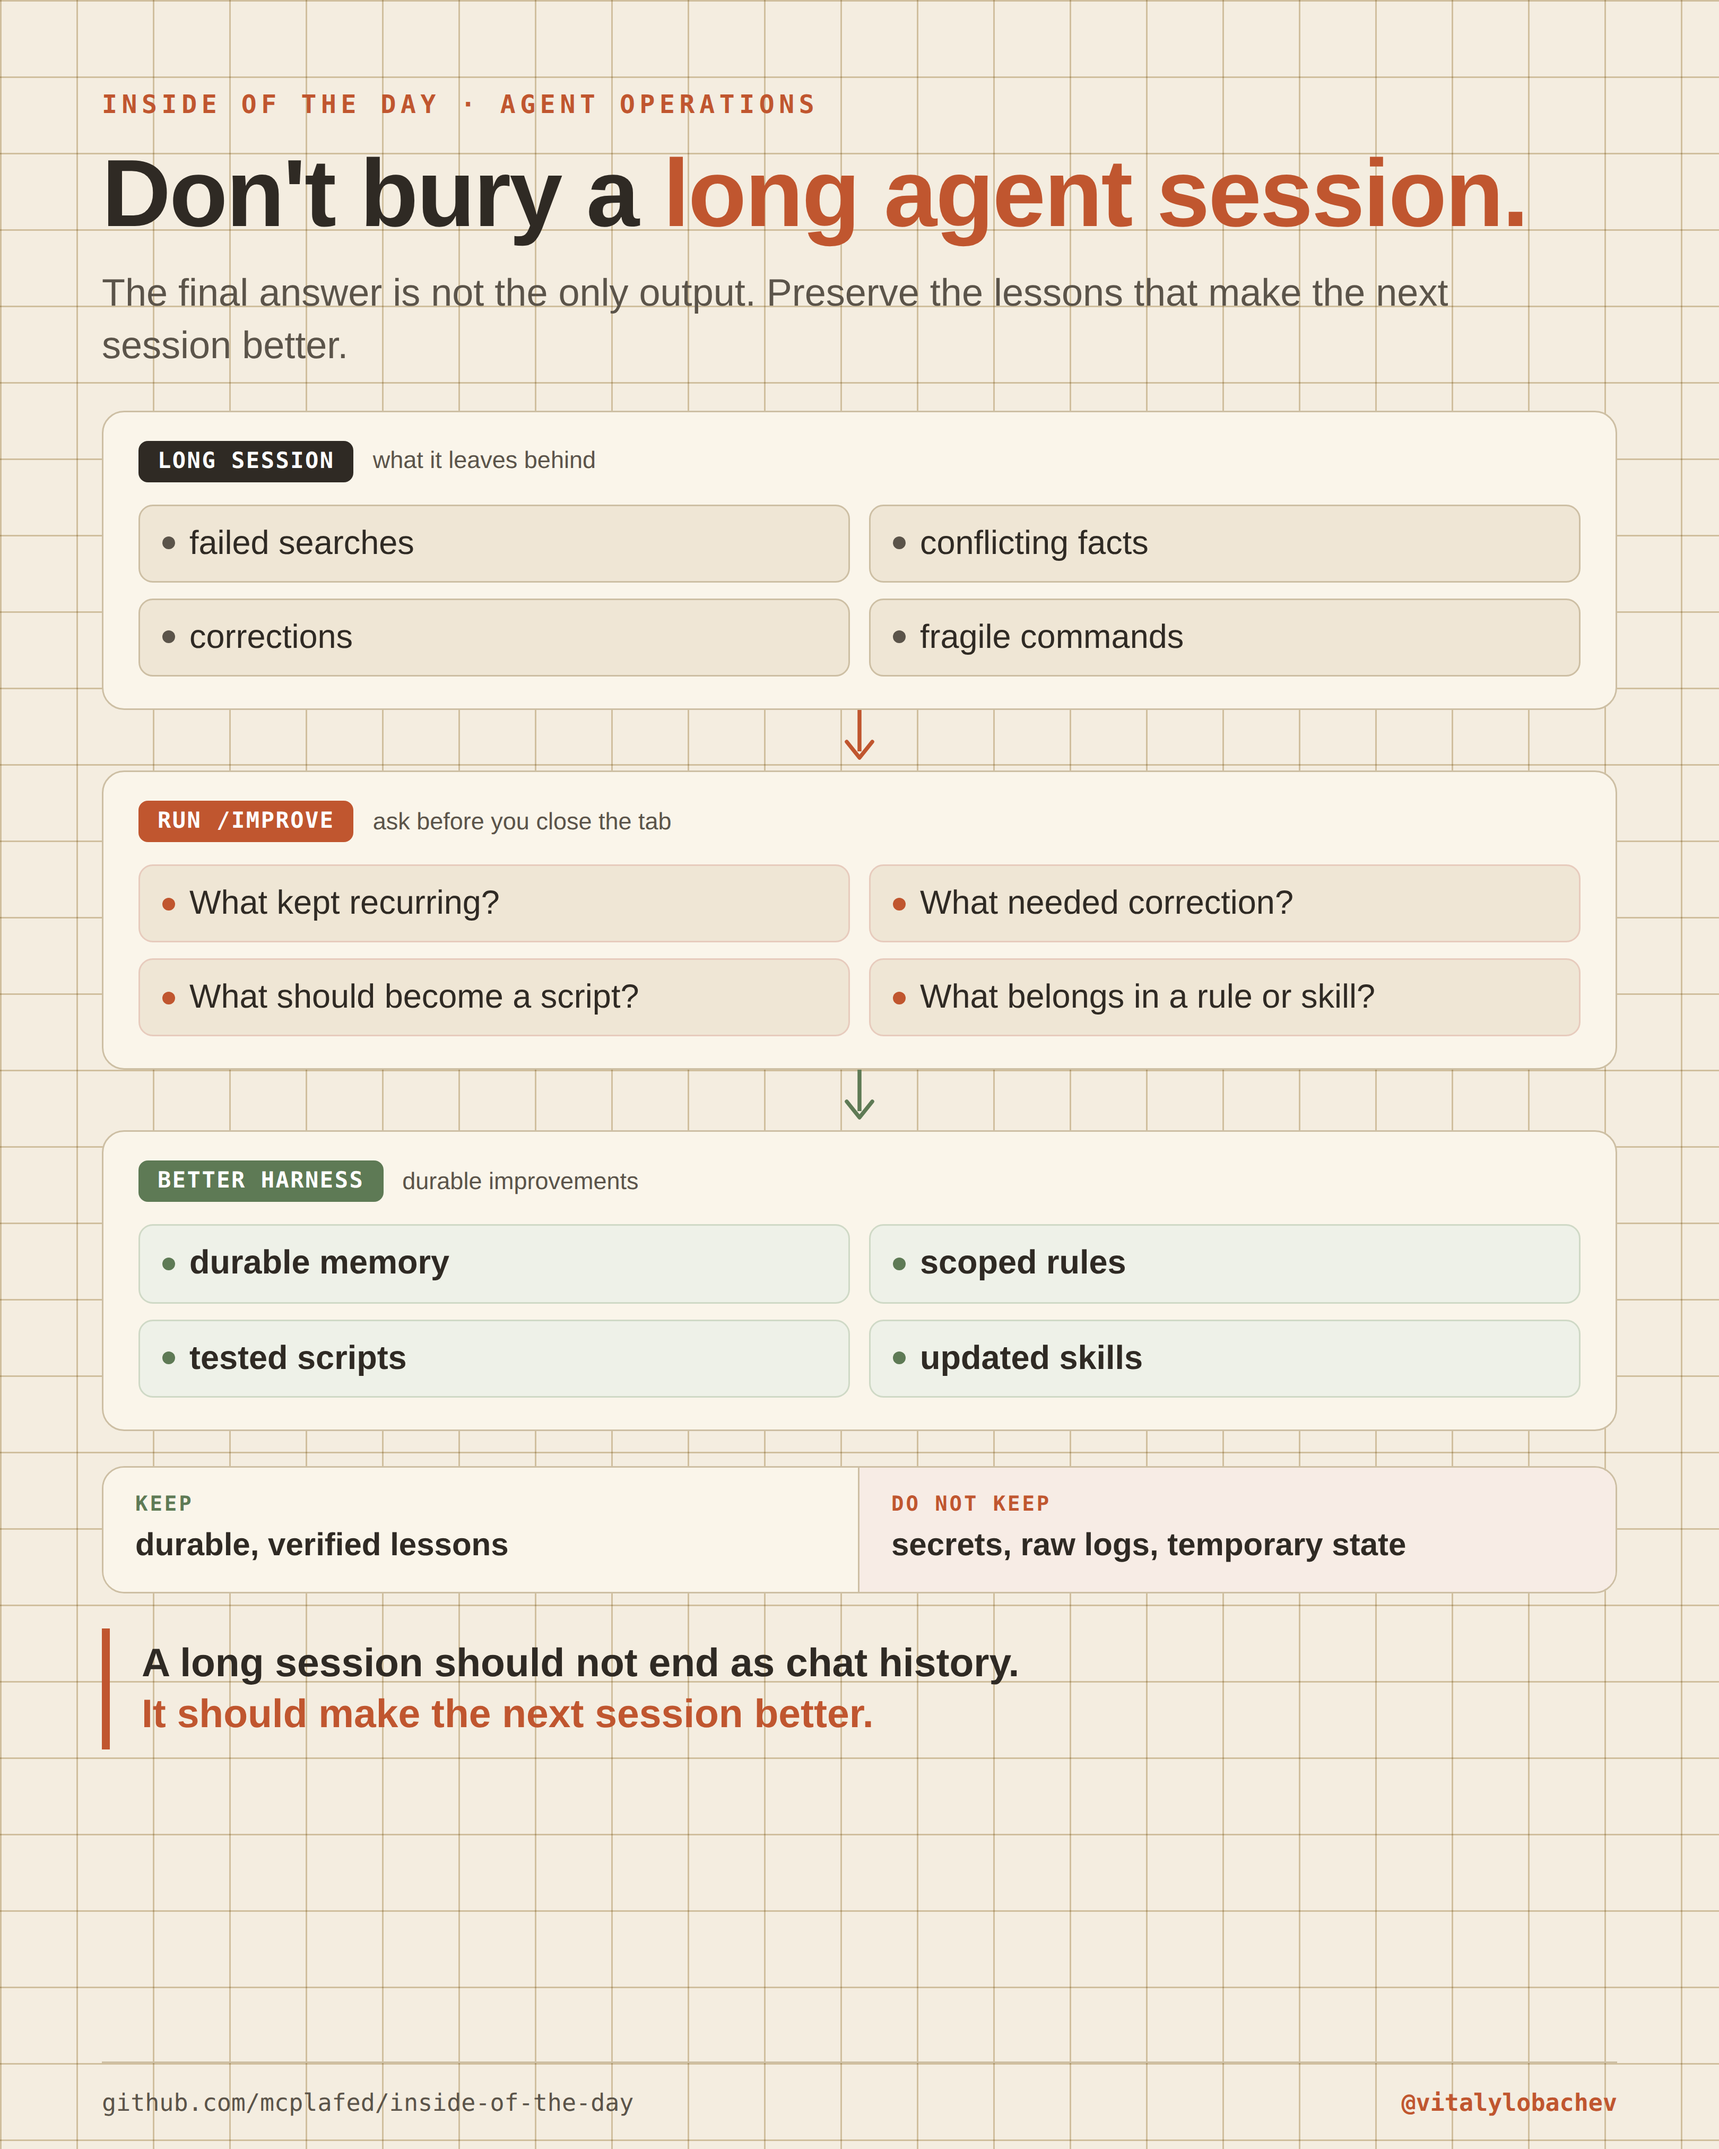
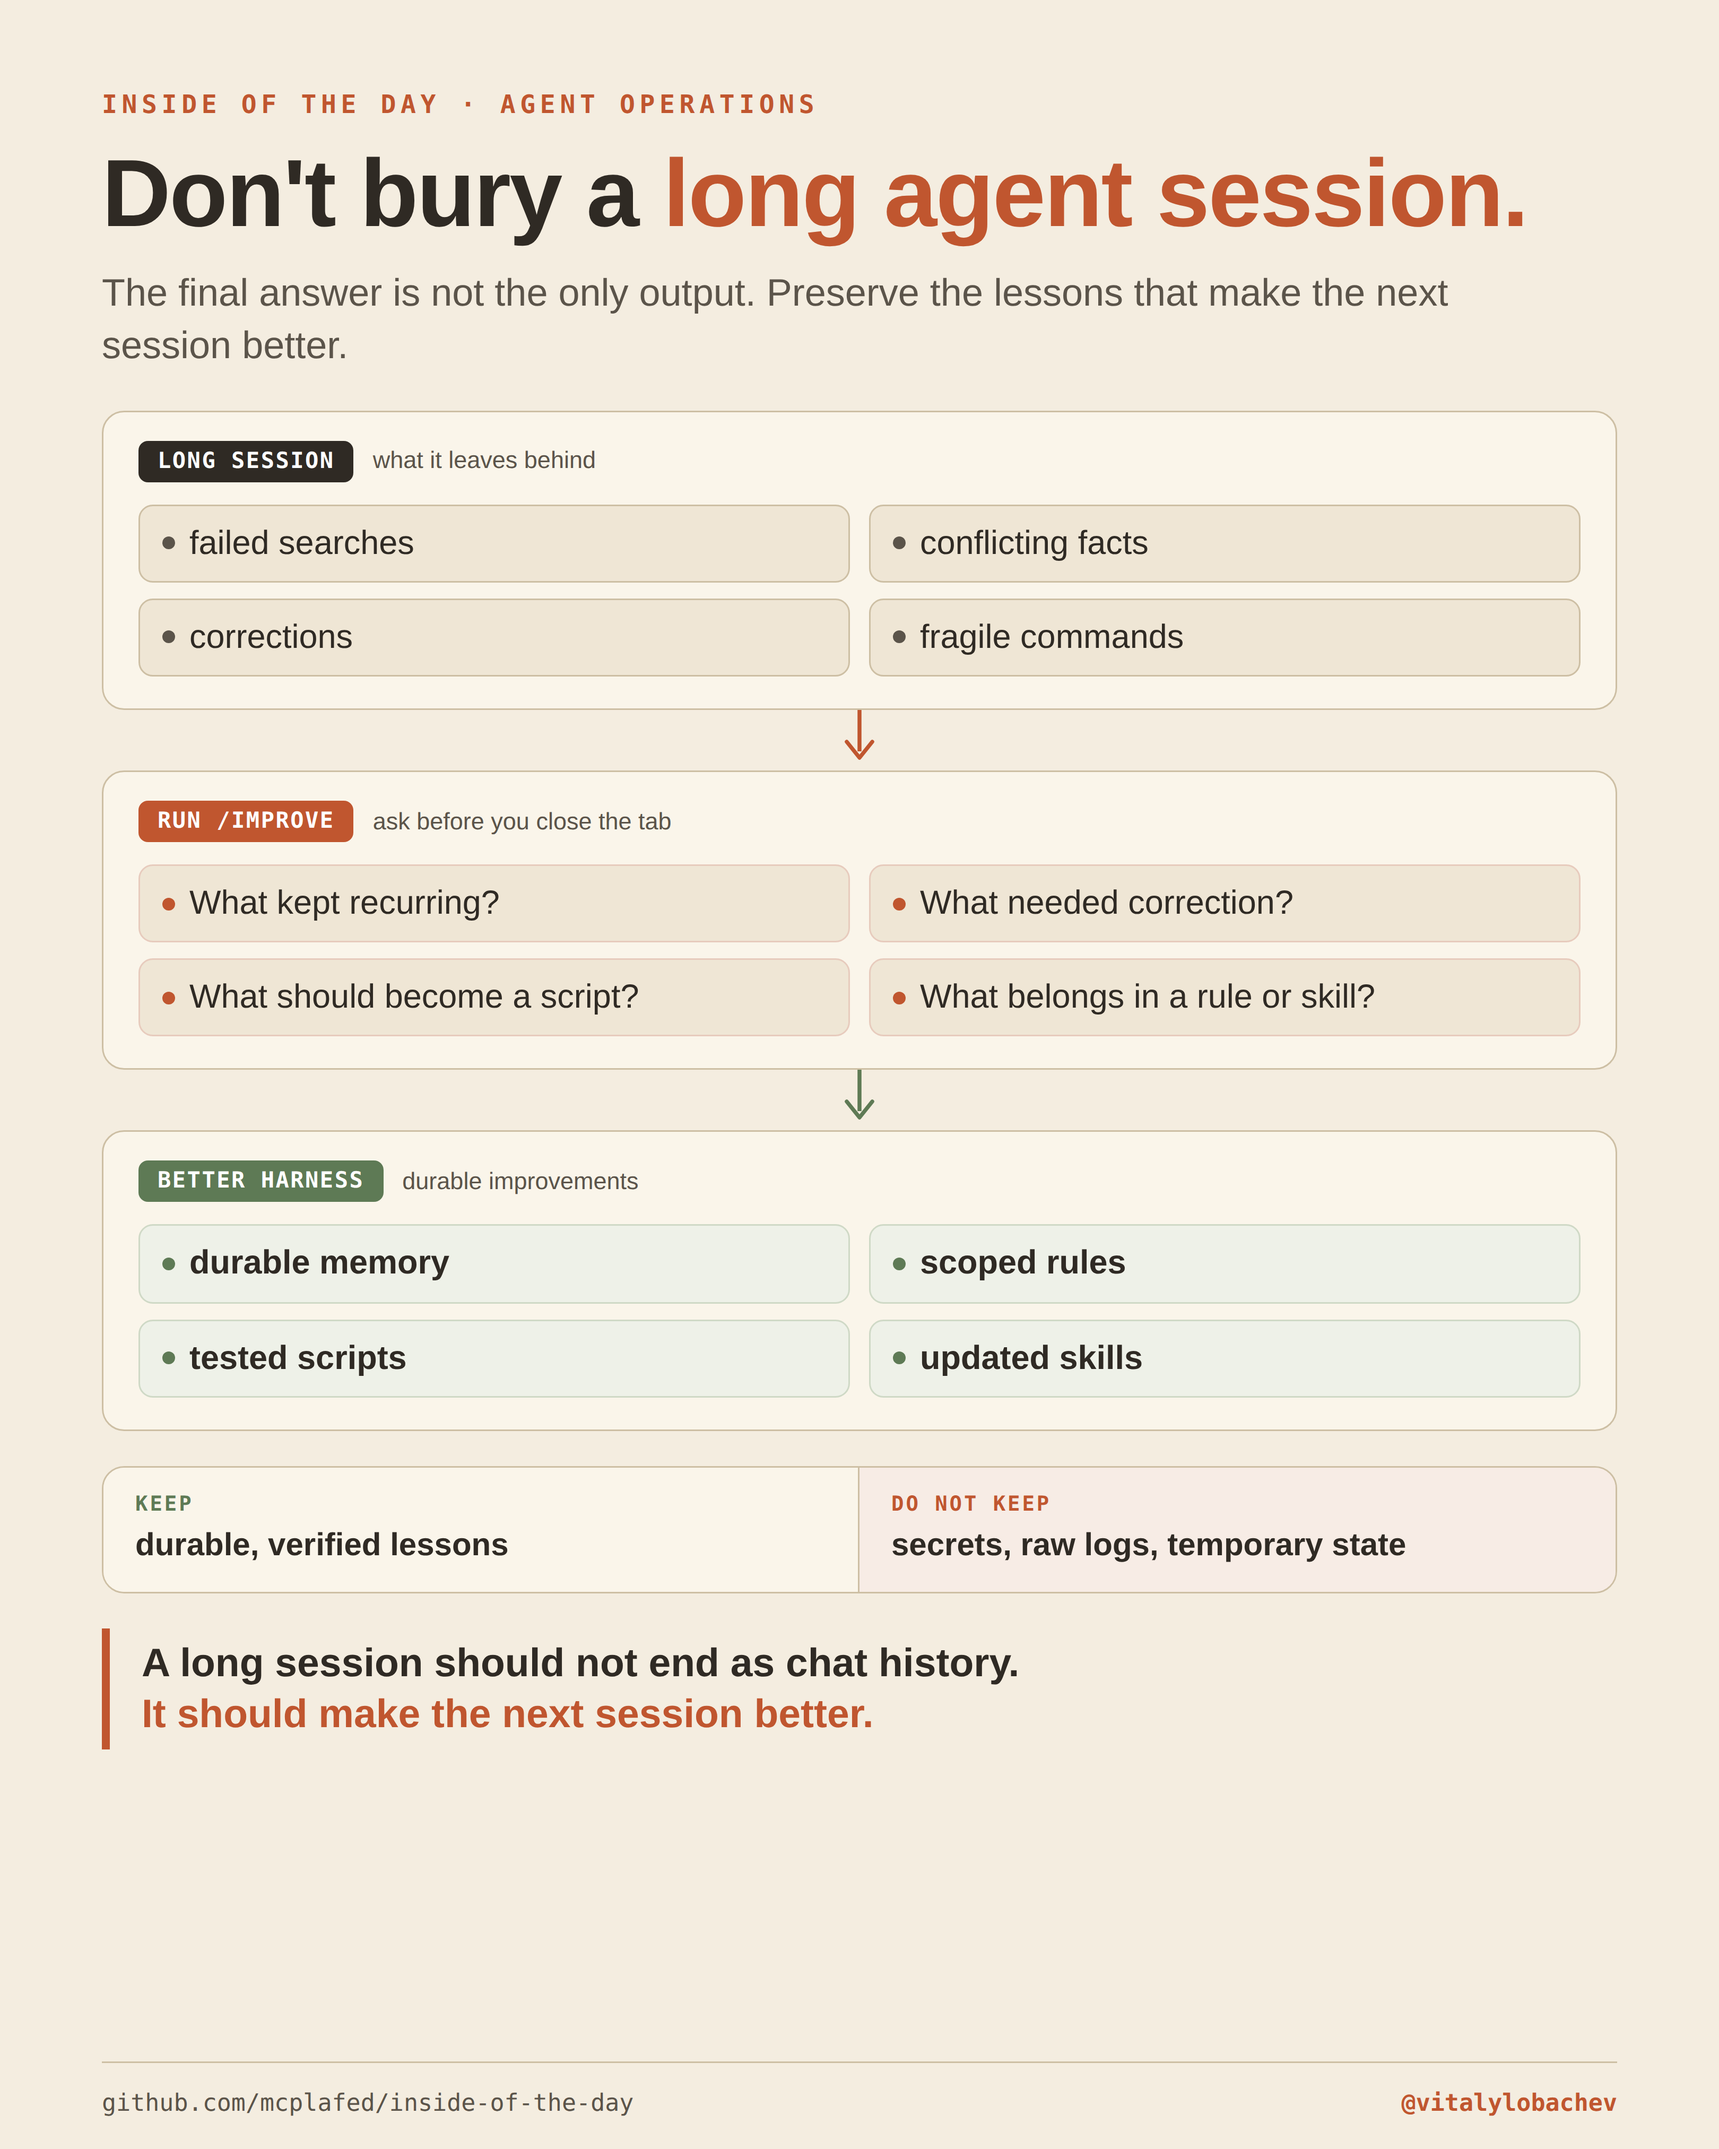
docs(linkedin): include improve prompt

Changed region(s): [[0.0, 0.9956, 1.0, 1.0]]

diff --git a/posts/12-improve-the-harness/source/infographic.html b/posts/12-improve-the-harness/source/infographic.html
@@ -19,16 +19,12 @@
     --line:#cdbfa4;
   }
   *{box-sizing:border-box;margin:0;padding:0;}
-  html,body{background:#c9bda2;}
+  html,body{background:var(--parchment);}
   .canvas{
     position:relative;
     width:1080px;height:1350px;
     margin:0 auto;
-    background:
-      linear-gradient(var(--grid) 1px, transparent 1px) 0 0/48px 48px,
-      linear-gradient(90deg, var(--grid) 1px, transparent 1px) 0 0/48px 48px,
-      var(--parchment);
-    background-blend-mode:multiply,multiply,normal;
+    background:var(--parchment);
     color:var(--ink);
     font-family:-apple-system,"Segoe UI",Roboto,Helvetica,Arial,sans-serif;
     padding:56px 64px 0 64px;
